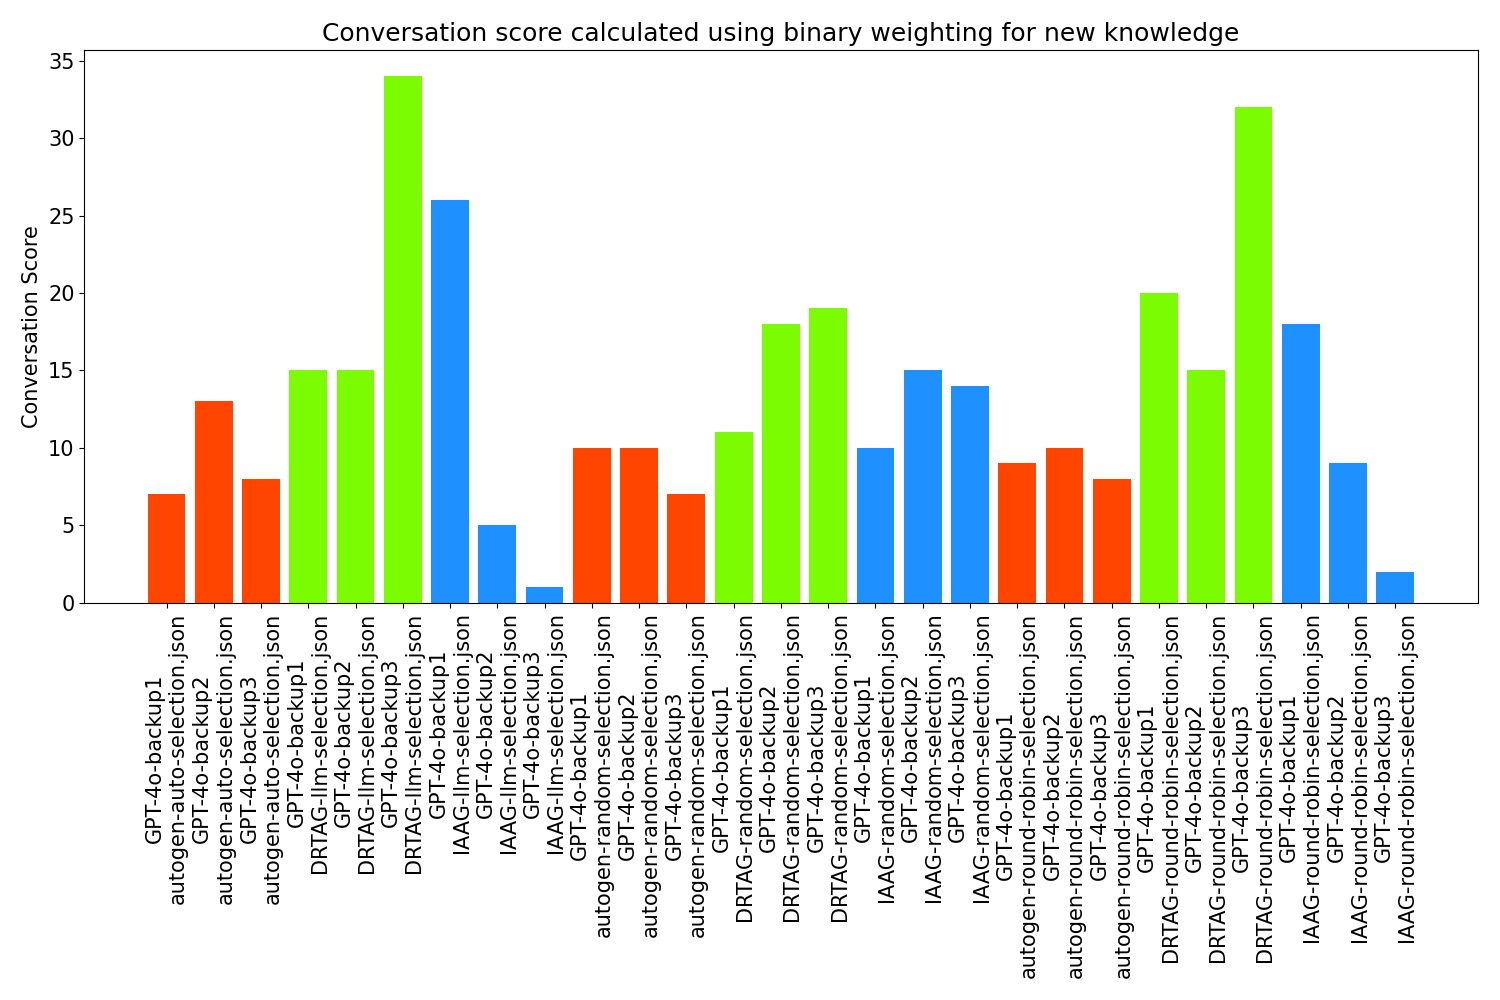
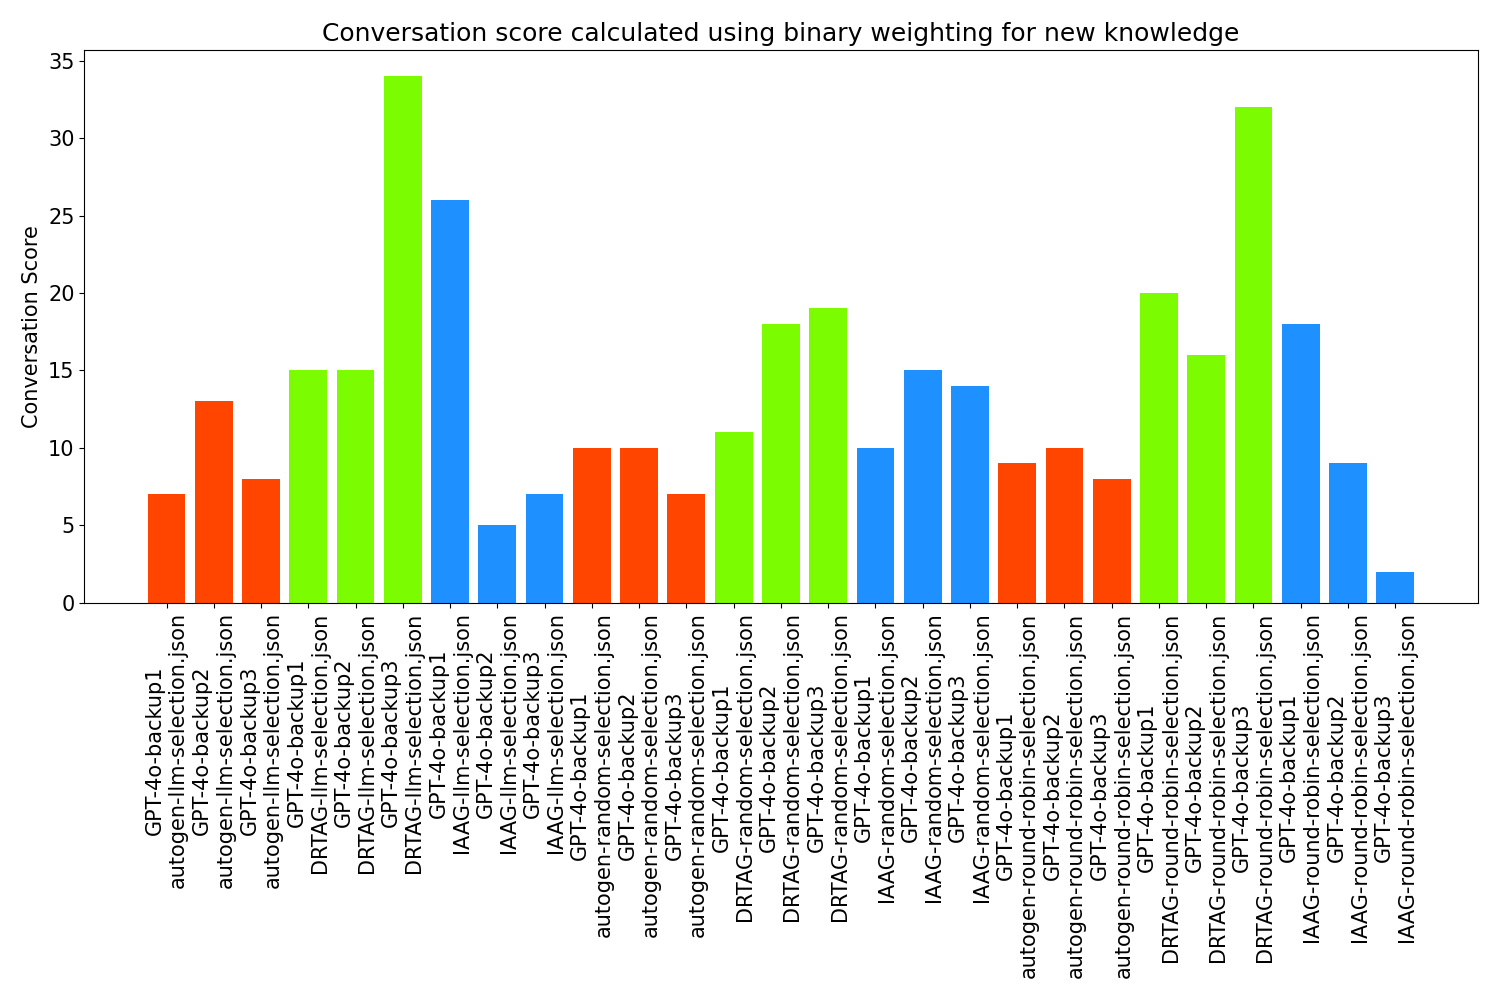
Generate all graphs by using new evaluation scripts.

Changed region(s): [[0.092, 0.62, 0.184, 0.899], [0.3373, 0.496, 0.3987, 0.589], [0.7973, 0.341, 0.828, 0.372]]

diff --git a/agent-count-vs-new-knowledge-evaluator.py b/agent-count-vs-new-knowledge-evaluator.py
@@ -85,7 +85,7 @@ for jsonFilePath in jsonFilePaths:
     for entry in jsonData:
         if entry["role"] in initialAgents:
             initialAgentsContent += entry["content"] + " "
-            initialAgents.remove(entry["role"])
+            # initialAgents.remove(entry["role"])
         else:
             autoGeneratedAgentsContent += entry["content"] + " "
 
@@ -132,5 +132,5 @@ for idx, selection_type in enumerate(selection_types):
 fig.legend(loc="upper right", title="LLM-based MAS approach", labels=["Autogen", "DRTAG", "IAAG"])
 fig.suptitle("Agent Count vs Binary Weight for New Knowledge")
 plt.tight_layout(rect=[0, 0.03, 1, 0.95])
-plt.savefig("agentCountVsNewKnowledgeBinaryWeight2.png")
+plt.savefig("agentCountVsNewKnowledgeBinaryWeight1.png")
 print("Scatter plot of agent count vs binary weight is saved as agentCountVsNewKnowledgeBinaryWeight.png")

diff --git a/binary-weight-for-new-knowledge-evaluator.py b/binary-weight-for-new-knowledge-evaluator.py
@@ -79,7 +79,7 @@ for jsonFilePath in jsonFilePaths:
     for entry in jsonData:
         if entry["role"] in initialAgents:
             initialAgentsContent += entry["content"] + " "
-            # initialAgents.remove(entry["role"])
+            initialAgents.remove(entry["role"])
         else:
             autoGeneratedAgentsContent += entry["content"] + " "
 
@@ -114,5 +114,5 @@ plt.xticks(rotation=90)
 plt.ylabel("Conversation Score")
 plt.title("Conversation score calculated using binary weighting for new knowledge")
 plt.tight_layout()
-plt.savefig("conversationScoresBinaryWeighting1.png")
+plt.savefig("conversationScoresBinaryWeighting2.png")
 print("Graph is plotted successfully.")

diff --git a/agent-count-vs-tfidf-for-keywords-evaluator.py b/agent-count-vs-tfidf-for-keywords-evaluator.py
@@ -49,8 +49,6 @@ tfidfSums = dict()
 for column in tfidfTable.columns[1:]:
     tfidfSums[column] = tfidfTable[column].sum()
 
-print(tfidfSums)
-
 for jsonFilePath in jsonFilePaths:
     with open(jsonFilePath) as jsonFile:
         jsonData = json.load(jsonFile)
@@ -66,7 +64,6 @@ for jsonFilePath in jsonFilePaths:
     agentCountsAndTfIdf[jsonFilePath.split("/")[-2] + '\n' + jsonFilePath.split("/")[-1]] = [(len(agents) - 1), tfidfSumValue]
 
 print("Number of agents are counted for each JSON file.")
-print(agentCountsAndTfIdf)
 
 # Plot a scatter plot of agent count vs binary weight
 fig, axes = plt.subplots(1, 3, figsize=(20, 8))
